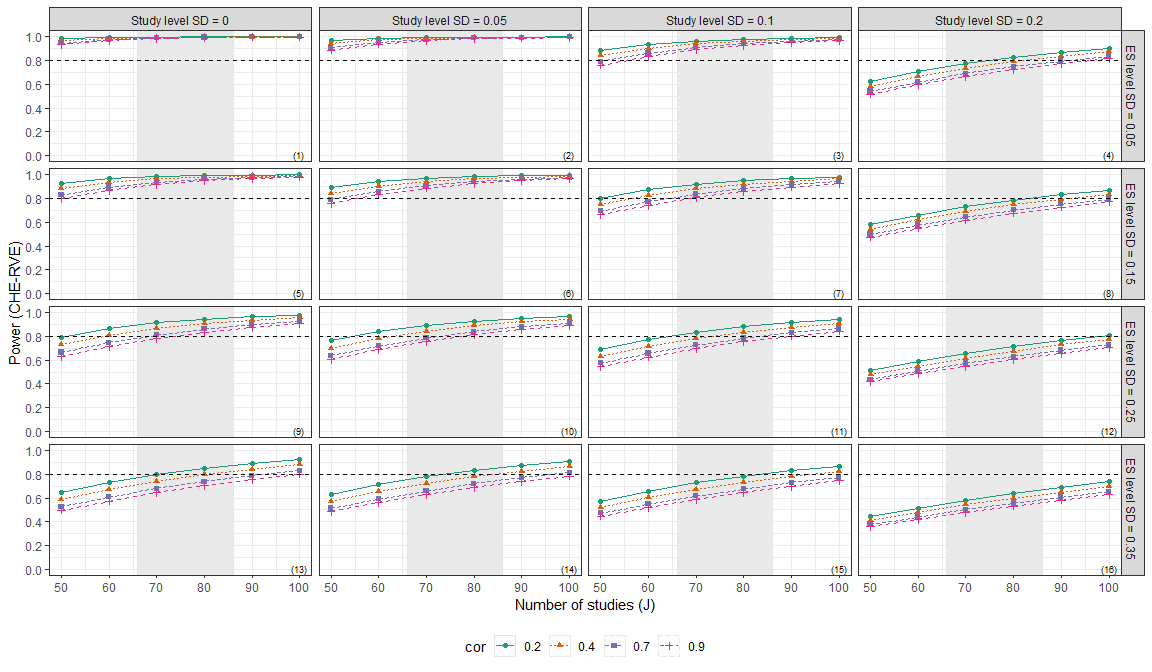
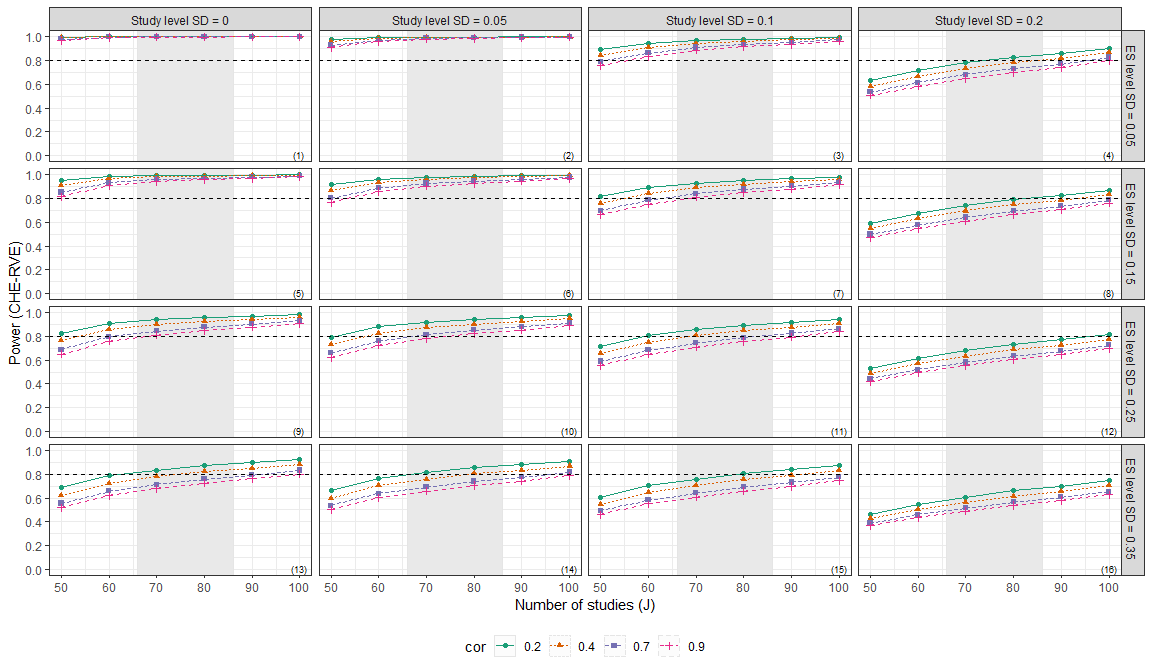
Add sample_size_method and N_mean to power_plot

diff --git a/README.md b/README.md
@@ -77,9 +77,10 @@ power_CHE_RVE_plot <-
     rho = c(.2, .4, .7, .9),
     model = "CHE",  # Default
     var_df = "RVE", # Default
+    sigma2_method = "empirical",
     pilot_data_kjsigma2 = dat_kjsigma2j,
     expected_studies = c(66, 86),
-    iterations = 100, # Default
+    iterations = 1, # Default 100
     seed = 10052510
     
   )
@@ -101,11 +102,12 @@ power_CHE_RVE_color_plot <-
     rho = c(.2, .4, .7, .9),
     model = "CHE",
     var_df = "RVE",
+    sigma2_method = "empirical",
     pilot_data_kjsigma2 = dat_kjsigma2j,
     expected_studies = c(66, 86),
     color = TRUE,
     color_brewer = TRUE,
-    iterations = 100, # Default
+    iterations = 1, # Default 100
     seed = 10052510
   )
 
